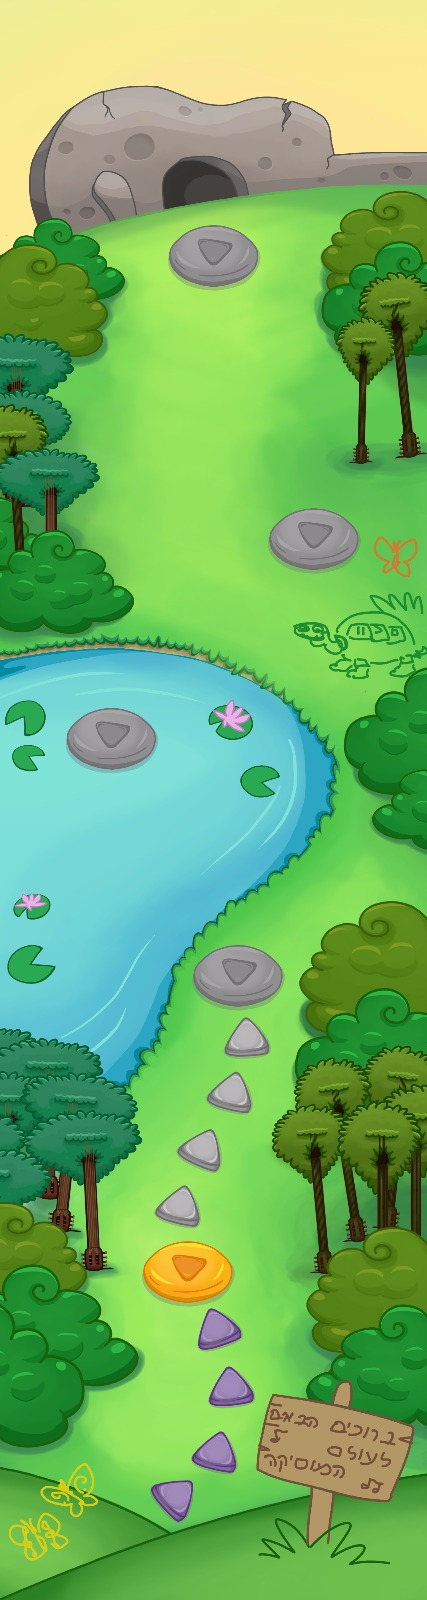
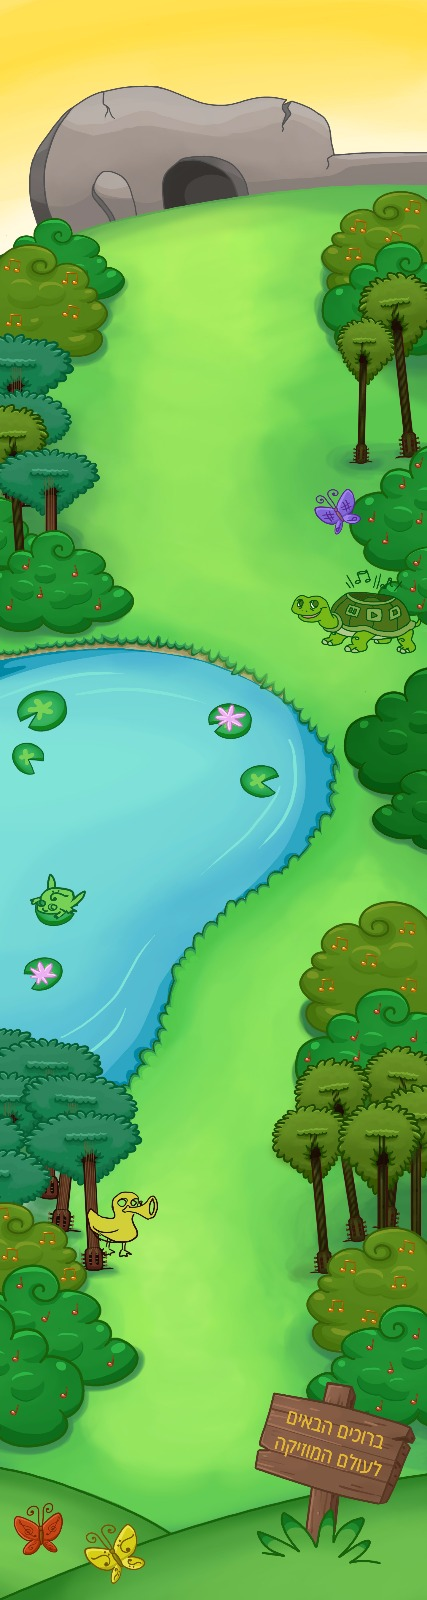
clouds added

diff --git a/index.ios.js b/index.ios.js
@@ -14,6 +14,25 @@ import * as _ from 'lodash';
 
 import niv from './index2.js'
 
+const GoalImage = ({x, y, imageType}) => {
+  // console.warn({x, y, imageType})
+  let image;
+  const emptyImage = require('./img/plus_gray.png');
+  const undoneImage = require('./img/gray_play.png');
+  const completeImage = require("./img/golden_play.png");
+  if (imageType === 'empty') {
+    image = emptyImage
+  } else if (imageType == 'undone') {
+    image = undoneImage
+  } else {
+    image = completeImage
+  }
+  return (
+    <TouchableOpacity><Image style={{position : "absolute", height: height*0.09 ,width: height*0.09*1.4, top: y-(width*0.11), left: x-(width*0.066667)}}
+    source={image}/></TouchableOpacity>
+  )
+}
+
 const {height, width} = Dimensions.get('window')
 export default class legatiplay extends React.Component {
   constructor(props) {
@@ -46,7 +65,7 @@ export default class legatiplay extends React.Component {
           curvePoints : [{x: width*0.2, y: height*1.1},
                           {x: width*0.2, y: height*0.9}],
           targetPoint : {x: width*0.15+(width*0.067), y: height*0.78+(width*0.11)},
-          challenges : [ {id : 17, done: true, cordinate:{x: 1, y: 1}},{id : 17, done: true, cordinate:{x: 1, y: 1}},{id : 17, done: true, cordinate:{x: 1, y: 1}},{id : 17, done: true, cordinate:{x: 1, y: 1}}, {id : 18, done: true, cordinate:{x: 1, y: 1}}, {id : 19, done: true},{id : 20, done: true, cordinate:{x: 1, y: 1}}, {id : 21, done: true, cordinate:{x: 1, y: 1}} ],
+          challenges : [{id : 17, done: true, cordinate:{x: 1, y: 1}}, {id : 18, done: true, cordinate:{x: 1, y: 1}}, {id : 19, done: true},{id : 20, done: true, cordinate:{x: 1, y: 1}}, {id : 21, done: true, cordinate:{x: 1, y: 1}} ],
           challengeDimentions : 0
         },
         {
@@ -55,16 +74,16 @@ export default class legatiplay extends React.Component {
           initialPoint: {x: width*0.15+(width*0.067), y: height*0.78},
           curvePoints : [{x: width*0.55, y: height*0.78},
                           {x: width*0.7, y: height*0.65}],
-          targetPoint : {x: width*0.64+(width*0.067), y: height*0.52+(width*0.11)},
+          targetPoint : {x: width*0.55+(width*0.067), y: height*0.5+(width*0.11)},
           challenges : [ {id : 17, done: false, cordinate:{x: 1, y: 1}},{id : 17, done: false, cordinate:{x: 1, y: 1}}, {id : 18, done: false, cordinate:{x: 1, y: 1}}, {id : 19, done: false},{id : 20, done: false, cordinate:{x: 1, y: 1}}, {id : 21, done: false, cordinate:{x: 1, y: 1}} ],
           challengeDimentions : 0
         },
         {
           goalId : 5,
           goalStatus : "empty",
-          initialPoint: {x: width*0.64+(width*0.067), y: height*0.52},
-          curvePoints : [{x: width*0.35, y: height*0.52},
-                          {x: width*0.3, y: height*0.25}],
+          initialPoint: {x: width*0.55+(width*0.067), y: height*0.5},
+          curvePoints : [{x: width*0.3, y: height*0.52},
+                          {x: width*0.25, y: height*0.25}],
           targetPoint : {x: width*0.4+(width*0.067), y: height*0.16+(width*0.11)},
           challenges : [{id : 17, done: false, cordinate:{x: 1, y: 1}}, {id : 18, done: false, cordinate:{x: 1, y: 1}}, {id : 19, done: false},{id : 20, done: false, cordinate:{x: 1, y: 1}}, {id : 21, done: false, cordinate:{x: 1, y: 1}} ],
           challengeDimentions : 0
@@ -104,21 +123,23 @@ export default class legatiplay extends React.Component {
       <View>
         {this.state.goalList[goalNumber].challenges.map((challengePoint, index) => {
           let m = 0
+          let challengedimentions = this.state.goalList[goalNumber].challengeDimentions;
+         // degreeFinder(this.state.goalList[goalNumber],index,  )
             if(index!== this.state.goalList[goalNumber].challenges.length-1){
-            m =  Math.atan2((this.state.goalList[goalNumber].challenges[index+1].cordinate.y - (this.state.goalList[goalNumber].challengeDimentions*0.2)) - challengePoint.cordinate.y ,
-                                (this.state.goalList[goalNumber].challenges[index+1].cordinate.x - (this.state.goalList[goalNumber].challengeDimentions*0.2)) - challengePoint.cordinate.x) *  180 / Math.PI -110;
+            m =  Math.atan2((this.state.goalList[goalNumber].challenges[index+1].cordinate.y - (challengedimentions*0.2)) - challengePoint.cordinate.y ,
+                                (this.state.goalList[goalNumber].challenges[index+1].cordinate.x - (challengedimentions*0.2)) - challengePoint.cordinate.x) *  180 / Math.PI -110;
           } else {
             m = 250+ Math.atan2((this.state.goalList[goalNumber].targetPoint.y-20) - challengePoint.cordinate.y ,
                            (this.state.goalList[goalNumber].targetPoint.x-10) - challengePoint.cordinate.x) *  180 / Math.PI;
           }
           if(challengePoint.done==false){
             return (
-          <TouchableOpacity>
-          <Image style={{transform: [{rotate:`${180+m}deg`}],position : "absolute", height: this.state.goalList[goalNumber].challengeDimentions ,width: this.state.goalList[goalNumber].challengeDimentions, top: challengePoint.cordinate.y, left: challengePoint.cordinate.x}}
+                <TouchableOpacity>
+                <Image style={{transform: [{rotate:`${180+m}deg`}],position : "absolute", height: challengedimentions ,width: challengedimentions, top: challengePoint.cordinate.y, left: challengePoint.cordinate.x}}
                               source= {require('./img/challenge_gray.png')}/></TouchableOpacity>
           )} else{ return(
-              <TouchableOpacity>
-              <Image style={{transform: [{rotate:`${180+m}deg`}],position : "absolute", height: this.state.goalList[goalNumber].challengeDimentions ,width: this.state.goalList[goalNumber].challengeDimentions, top: challengePoint.cordinate.y, left: challengePoint.cordinate.x}}
+               <TouchableOpacity>
+               <Image style={{transform: [{rotate:`${180+m}deg`}],position : "absolute", height: challengedimentions ,width: challengedimentions, top: challengePoint.cordinate.y, left: challengePoint.cordinate.x}}
                               source= {require('./img/challenge_purple.png')}/></TouchableOpacity>
           )}
          
@@ -130,21 +151,9 @@ export default class legatiplay extends React.Component {
     return (
       <View>
         {this.state.goalList.map((goal, index) => {
-       if (goal.goalStatus == "undone"){
-          return (
-        <TouchableOpacity><Image style={{position : "absolute", height: height*0.09 ,width: height*0.09*1.4, top: goal.targetPoint.y-(width*0.11), left: goal.targetPoint.x-(width*0.066667)}}
-                              source= {require('./img/gray_play.png')}/></TouchableOpacity>
-        )}
-        if(goal.goalStatus == "done") {
-        return(
-         <TouchableOpacity><Image style={{position : "absolute", height: height*0.09 ,width: height*0.09*1.4, top: goal.targetPoint.y-(width*0.11), left: goal.targetPoint.x-(width*0.066667)}}
-                              source= {require('./img/golden_play.png')}/></TouchableOpacity>
-        )}
-        if(goal.goalStatus == "empty") {
-          return(
-         <TouchableOpacity><Image style={{position : "absolute", height: height*0.09 ,width: height*0.09*1.4, top: goal.targetPoint.y-(width*0.11), left: goal.targetPoint.x-(width*0.066667)}}
-                              source= {require('./img/plus_gray.png')}/></TouchableOpacity>
-        )} 
+         return (
+           <GoalImage x={goal.targetPoint.x} y={goal.targetPoint.y} imageType={goal.goalStatus}/>
+         )
        }
     )}
     </View>
@@ -172,6 +181,21 @@ export default class legatiplay extends React.Component {
     }
     this.setState({goalList: newGoalList})
   }
+
+  clouds(){
+    let i = 10
+    let clouds = []
+    while(i<128) {
+      clouds.push((
+        <View>
+          <Image style={{marginTop:height*(i/100), marginLeft:-height*0.13, height:height*0.35, width:height*0.35*2.37 , position: 'absolute'}} source={require('./img/threeClouds.png')}/>  
+        </View>
+      )) 
+    i = i+ 15
+    }
+    return clouds
+      
+  }
   
       
   render() {
@@ -185,6 +209,8 @@ export default class legatiplay extends React.Component {
         {this.printChallnges(3)}
         {this.printChallnges(4)}
         {this.printGoals()}
+        {this.clouds()}
+
       </ScrollView>
     ); 
 

diff --git a/index2.js b/index2.js
@@ -20,9 +20,8 @@ export default class ChallengesPage extends React.Component {
     this.state = {
       challengesPoints: [
         {done:true},
-        {done:true},
-        {done:true},
-        {done:true},
+        {done:false},
+        {done:false},
         {done:true},
         {done:true},
         {done:true}
@@ -62,7 +61,7 @@ export default class ChallengesPage extends React.Component {
                    } else {
                     return (
                       <TouchableOpacity onPress={() =>{if(index!=challengeIndex + 1) this.swiper.scrollBy((challengeIndex+1)-index, true)}}>
-                                <Image style={{ marginHorizontal:this.state.challengeDimentions*0.3, width:this.state.challengeDimentions, height:this.state.challengeDimentions}}
+                                <Image style={{marginHorizontal:this.state.challengeDimentions*0.3, width:this.state.challengeDimentions, height:this.state.challengeDimentions}}
                               source= {require('./img/challenge_purple.png')}/>
                       </TouchableOpacity>  )
                    }
